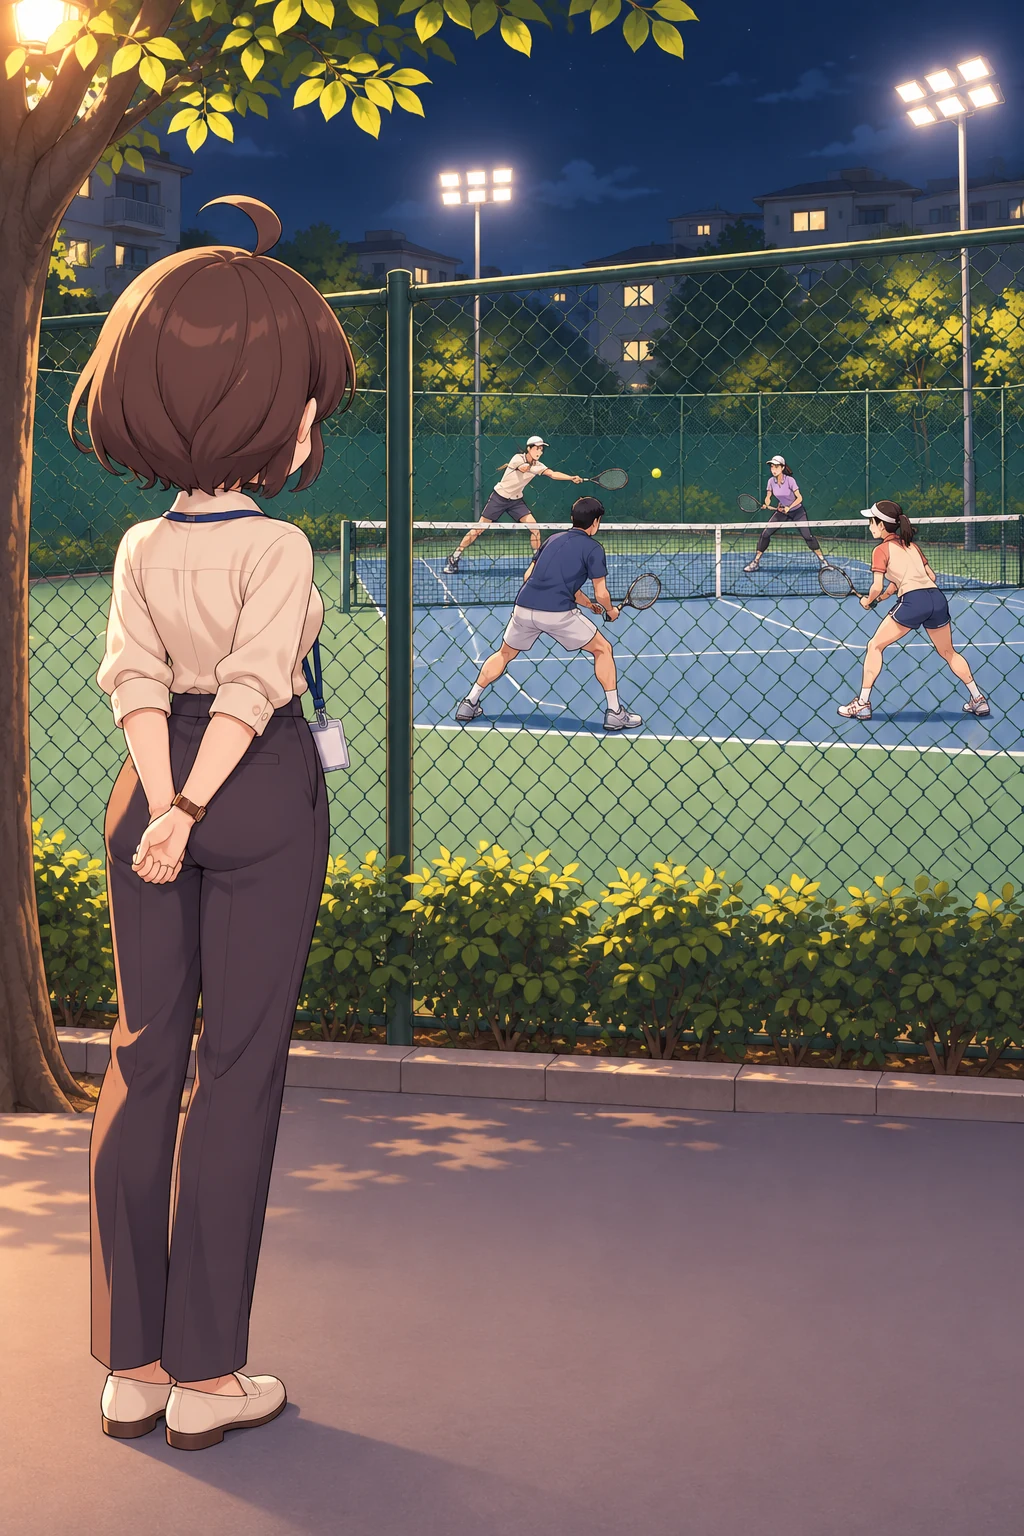
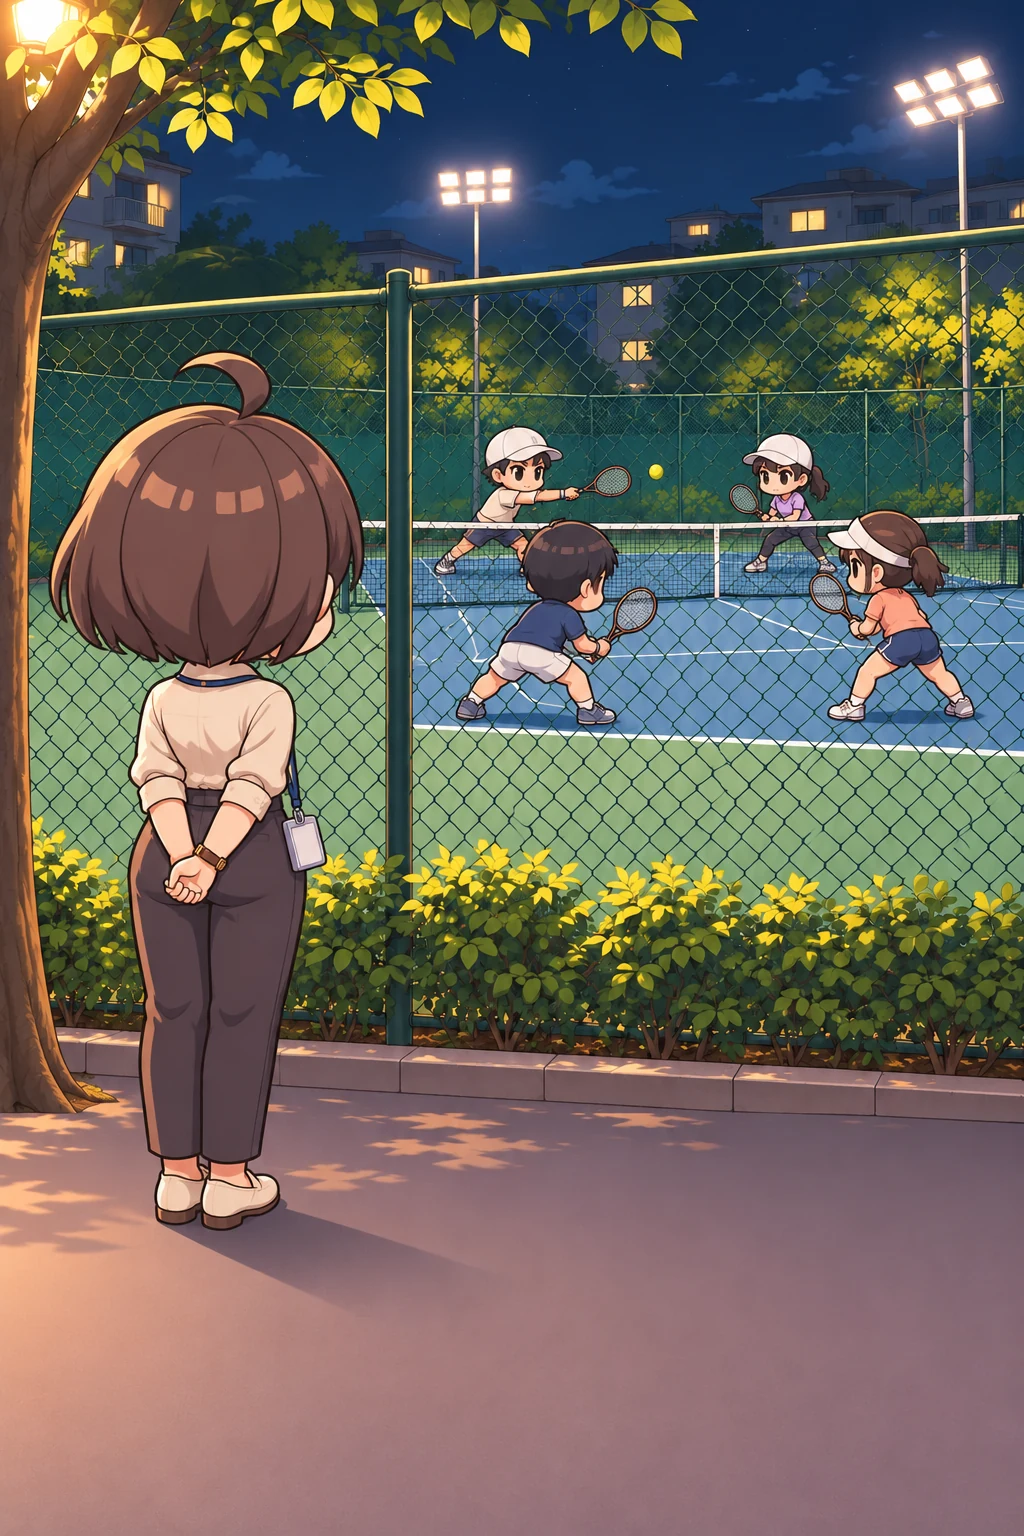
다시 그린 그림 35장을 게임에 넣음
- 요정 B안 7장: 이제 요정이 그림으로 나온다
- 인트로 3, 8번 컷, 5번 컷
- 상대 A 8장을 따로 그려 상대 B와 다른 사람이 됨
- 상대 B 흰 라켓 6장, 김하나 뒷모습 8장과 정면 2장, 주인공 포핸드 정면

diff --git a/art/SOURCES.md b/art/SOURCES.md
@@ -69,3 +69,38 @@
 | 2026-11-07 | art/sd/player/tired_front.webp | ChatGPT 이미지 생성 |
 | 2026-11-07 | art/sd/player/volley_back.webp | ChatGPT 이미지 생성 |
 | 2026-11-07 | art/sd/player/volley_front.webp | ChatGPT 이미지 생성 |
+| 2026-11-07 | art/fairy/appear.webp | ChatGPT 이미지 생성 |
+| 2026-11-07 | art/fairy/base.webp | ChatGPT 이미지 생성 |
+| 2026-11-07 | art/fairy/cheer.webp | ChatGPT 이미지 생성 |
+| 2026-11-07 | art/fairy/joy.webp | ChatGPT 이미지 생성 |
+| 2026-11-07 | art/fairy/surprise.webp | ChatGPT 이미지 생성 |
+| 2026-11-07 | art/fairy/wave.webp | ChatGPT 이미지 생성 |
+| 2026-11-07 | art/fairy/worry.webp | ChatGPT 이미지 생성 |
+| 2026-11-07 | art/intro/03.webp | ChatGPT 이미지 생성 |
+| 2026-11-07 | art/intro/05.webp | ChatGPT 이미지 생성 |
+| 2026-11-07 | art/intro/08.webp | ChatGPT 이미지 생성 |
+| 2026-11-07 | art/sd/hana/bh_back.webp | ChatGPT 이미지 생성 |
+| 2026-11-07 | art/sd/hana/cheer_back.webp | ChatGPT 이미지 생성 |
+| 2026-11-07 | art/sd/hana/cheer_front.webp | ChatGPT 이미지 생성 |
+| 2026-11-07 | art/sd/hana/fh_back.webp | ChatGPT 이미지 생성 |
+| 2026-11-07 | art/sd/hana/ready_back.webp | ChatGPT 이미지 생성 |
+| 2026-11-07 | art/sd/hana/ready_front.webp | ChatGPT 이미지 생성 |
+| 2026-11-07 | art/sd/hana/sad_back.webp | ChatGPT 이미지 생성 |
+| 2026-11-07 | art/sd/hana/serve_back.webp | ChatGPT 이미지 생성 |
+| 2026-11-07 | art/sd/hana/smash_back.webp | ChatGPT 이미지 생성 |
+| 2026-11-07 | art/sd/hana/volley_back.webp | ChatGPT 이미지 생성 |
+| 2026-11-07 | art/sd/oppa/bh_front.webp | ChatGPT 이미지 생성 |
+| 2026-11-07 | art/sd/oppa/cheer_front.webp | ChatGPT 이미지 생성 |
+| 2026-11-07 | art/sd/oppa/fh_front.webp | ChatGPT 이미지 생성 |
+| 2026-11-07 | art/sd/oppa/ready_front.webp | ChatGPT 이미지 생성 |
+| 2026-11-07 | art/sd/oppa/sad_front.webp | ChatGPT 이미지 생성 |
+| 2026-11-07 | art/sd/oppa/serve_front.webp | ChatGPT 이미지 생성 |
+| 2026-11-07 | art/sd/oppa/smash_front.webp | ChatGPT 이미지 생성 |
+| 2026-11-07 | art/sd/oppa/volley_front.webp | ChatGPT 이미지 생성 |
+| 2026-11-07 | art/sd/oppb/bh_front.webp | ChatGPT 이미지 생성 |
+| 2026-11-07 | art/sd/oppb/ready_front.webp | ChatGPT 이미지 생성 |
+| 2026-11-07 | art/sd/oppb/sad_front.webp | ChatGPT 이미지 생성 |
+| 2026-11-07 | art/sd/oppb/serve_front.webp | ChatGPT 이미지 생성 |
+| 2026-11-07 | art/sd/oppb/smash_front.webp | ChatGPT 이미지 생성 |
+| 2026-11-07 | art/sd/oppb/volley_front.webp | ChatGPT 이미지 생성 |
+| 2026-11-07 | art/sd/player/fh_front.webp | ChatGPT 이미지 생성 |
